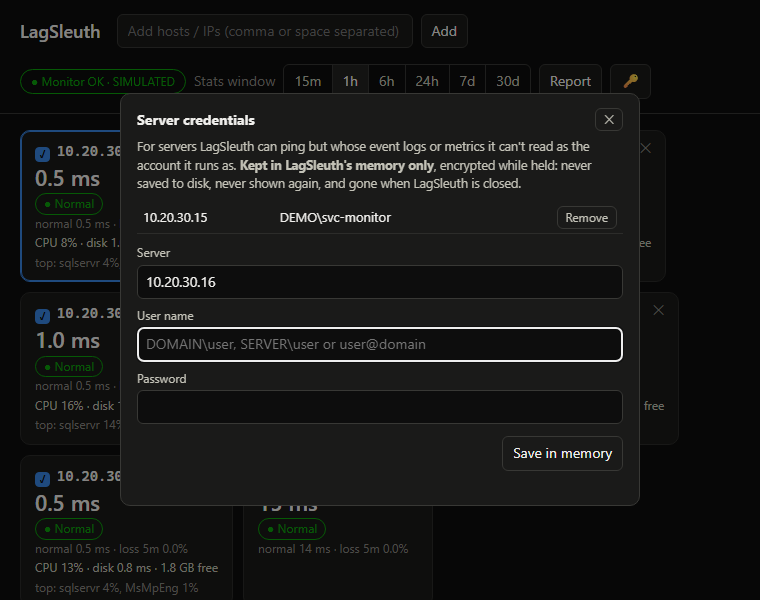
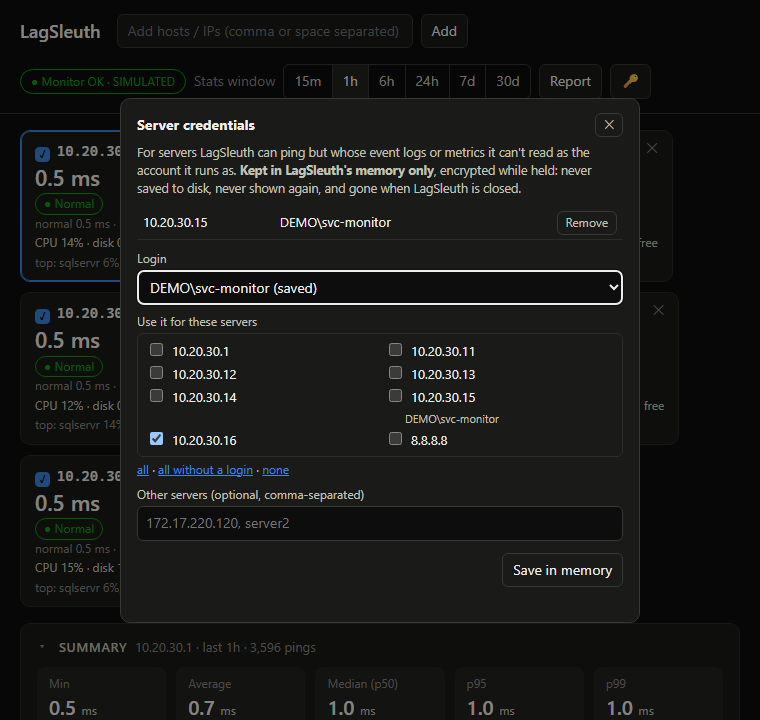
Credentials: one login for several servers, and reuse a saved login
The credentials dialog now has a tick-list of monitored servers (plus
"all", "all without a login" and an "other servers" box), so one login
can be entered once for many servers. Saved logins appear under Login
as "(saved)": pick one, tick more servers and save, without typing the
password again. The copy happens inside LagSleuth's memory; the password
is never sent back to the browser. Each server is tested in parallel and
reported on its own line.

POST /api/credentials accepts "hosts" (list) and "from" (copy the login
saved for that server); the single "host" form still works.

diff --git a/source/web/index.html b/source/web/index.html
@@ -154,6 +154,12 @@
   .cred td { padding: 4px 6px; border-bottom: 1px solid var(--grid); }
   .cred .msg { font-size: 12.5px; margin-top: 8px; min-height: 1em; }
   .cred .msg.bad { color: var(--critical); } .cred .msg.ok { color: var(--good); }
+  .cred select { width: 100%; font: inherit; padding: 6px 8px; border: 1px solid var(--axis); border-radius: 6px; background: var(--page); color: var(--text); }
+  .credHosts { display: grid; grid-template-columns: repeat(auto-fill, minmax(150px, 1fr)); gap: 2px 10px; max-height: 180px; overflow: auto; border: 1px solid var(--grid); border-radius: 6px; padding: 6px 8px; }
+  .credHosts label { display: flex; align-items: baseline; gap: 6px; margin: 0; font-size: 13px; color: var(--text); cursor: pointer; flex-wrap: wrap; }
+  .credHosts input { width: auto; padding: 0; }
+  .credHosts small { flex-basis: 100%; padding-left: 20px; color: var(--text-2); font-size: 11px; margin-top: -2px; }
+  .credPicks { font-size: 12px; color: var(--text-2); margin-top: 4px; }
   .credbtn { background: none; border: 0; color: var(--series); font: inherit; font-size: inherit; padding: 0; cursor: pointer; text-decoration: underline; }
   .lpanel { margin-top: 12px; background: #121211; border: 1px solid var(--grid); border-radius: 8px; padding: 10px 14px 14px; }
   .lhead { display: flex; align-items: center; gap: 8px; margin-bottom: 6px; flex-wrap: wrap; }
@@ -1515,32 +1521,54 @@ async function openCred(host) {
   }
   let list = [];
   try { const r = await credFetch('/api/credentials'); list = r.ok ? await r.json() : []; } catch {}
-  const targets = Object.keys(view.liveData || {});
+  const has = Object.fromEntries(list.map(c => [c.host, c.user]));
+  const targets = Object.keys(view.liveData || {}).filter(t => t !== 'local');
+  if (host && !targets.includes(host)) targets.unshift(host);
+  // one entry per saved login (user name), pointing at a server it is saved for, so it can be copied to others
+  const logins = [];
+  for (const c of list) if (!logins.some(l => l.user.toLowerCase() === c.user.toLowerCase())) logins.push(c);
+  const pick = host ? new Set([host]) : new Set();
   credBody.innerHTML = (list.length ? `<table>${list.map(c => `<tr><td class="mono">${esc(c.host)}</td><td>${esc(c.user)}</td>
       <td style="text-align:right"><button type="button" class="logbtn" data-credrm="${esc(c.host)}">Remove</button></td></tr>`).join('')}</table>` : '') +
-    `<label for="credHost">Server</label><input id="credHost" list="credHosts" value="${esc(host || '')}" placeholder="172.17.220.100" spellcheck="false">
-     <datalist id="credHosts">${targets.map(t => `<option value="${esc(t)}">`).join('')}</datalist>
-     <label for="credUser">User name</label><input id="credUser" placeholder="DOMAIN\\user, SERVER\\user or user@domain" spellcheck="false" autocomplete="off">
-     <label for="credPass">Password</label><input id="credPass" type="password" autocomplete="new-password">
+    `<label for="credLogin">Login</label>
+     <select id="credLogin">${logins.map(l => `<option value="${esc(l.host)}">${esc(l.user)} (saved)</option>`).join('')}<option value="">A new login…</option></select>
+     <div id="credNew">
+       <label for="credUser">User name</label><input id="credUser" placeholder="DOMAIN\\user, SERVER\\user or user@domain" spellcheck="false" autocomplete="off">
+       <label for="credPass">Password</label><input id="credPass" type="password" autocomplete="new-password">
+     </div>
+     <label>Use it for these servers</label>
+     <div class="credHosts">${targets.map(t => `<label><input type="checkbox" value="${esc(t)}"${pick.has(t) ? ' checked' : ''}>
+        <span class="mono">${esc(t)}</span>${has[t] ? `<small>${esc(has[t])}</small>` : ''}</label>`).join('') || '<span class="credNote">No servers monitored yet.</span>'}</div>
+     <div class="credPicks"><button type="button" class="credbtn" id="credAll">all</button> · <button type="button" class="credbtn" id="credNoLogin">all without a login</button> · <button type="button" class="credbtn" id="credNone">none</button></div>
+     <label for="credMore">Other servers (optional, comma-separated)</label><input id="credMore" placeholder="172.17.220.120, server2" spellcheck="false">
      <div style="display:flex;gap:8px;margin-top:12px"><span style="flex:1"></span><button type="button" class="btn" id="credSave">Save in memory</button></div>
      <div class="msg" id="credMsg"></div>`;
+  const sel = document.getElementById('credLogin'), showNew = () => document.getElementById('credNew').hidden = sel.value !== '';
+  sel.addEventListener('change', showNew); showNew();
   credDlg.showModal();
-  document.getElementById(host ? 'credUser' : 'credHost').focus();
+  (sel.value === '' ? document.getElementById('credUser') : sel).focus();
 }
+function credTick(fn) { credBody.querySelectorAll('.credHosts input').forEach(b => b.checked = fn(b)); }
 async function saveCred() {
-  const h = document.getElementById('credHost'), u = document.getElementById('credUser'), p = document.getElementById('credPass'), m = document.getElementById('credMsg');
-  if (!h.value.trim() || !u.value.trim() || !p.value) { m.className = 'msg bad'; m.textContent = 'Enter a server, a user name and a password.'; return; }
-  const body = JSON.stringify({ host: h.value.trim(), user: u.value.trim(), password: p.value });
-  p.value = '';   // never left in the page
-  m.className = 'msg'; m.textContent = 'Saving and testing…';
+  const sel = document.getElementById('credLogin'), u = document.getElementById('credUser'), p = document.getElementById('credPass'), m = document.getElementById('credMsg');
+  const hosts = [...credBody.querySelectorAll('.credHosts input:checked')].map(b => b.value)
+    .concat(document.getElementById('credMore').value.split(/[,;\s]+/).map(s => s.trim()).filter(Boolean));
+  const req = { hosts };
+  if (sel.value) req.from = sel.value;
+  else { req.user = u.value.trim(); req.password = p.value; }
+  if (!hosts.length) { m.className = 'msg bad'; m.textContent = 'Tick at least one server.'; return; }
+  if (!sel.value && (!req.user || !req.password)) { m.className = 'msg bad'; m.textContent = 'Enter a user name and a password.'; return; }
+  const body = JSON.stringify(req);
+  p.value = ''; delete req.password;   // never left in the page
+  m.className = 'msg'; m.textContent = `Saving and testing ${hosts.length} server${hosts.length > 1 ? 's' : ''}…`;
   try {
     const r = await credFetch('/api/credentials', { method: 'POST', body }), d = await r.json();
-    if (!r.ok) { m.className = 'msg bad'; m.textContent = d.error || 'Failed'; return; }
-    const host = d.host;
+    if (!d.results) { m.className = 'msg bad'; m.textContent = d.error || 'Failed'; return; }
     await openCred('');
-    const m2 = document.getElementById('credMsg');
-    m2.className = d.event_logs === 'ok' ? 'msg ok' : 'msg bad';
-    m2.textContent = `Saved for ${host} (memory only). Event logs: ${d.event_logs === 'ok' ? 'readable' : d.event_logs}. Metrics reconnect within a few seconds.`;
+    const m2 = document.getElementById('credMsg'), ok = d.results.every(x => x.event_logs === 'ok');
+    m2.className = ok ? 'msg ok' : 'msg bad';
+    m2.innerHTML = `Saved ${esc(d.user || '')} in memory. Metrics reconnect within a few seconds.<br>` + d.results.map(x =>
+      `<span class="mono">${esc(x.host)}</span>: ${x.error ? 'not saved, ' + esc(x.error) : x.event_logs === 'ok' ? 'event logs readable' : 'event logs ' + esc(x.event_logs || '')}`).join('<br>');
   } catch (e) { m.className = 'msg bad'; m.textContent = String(e); }
 }
 document.addEventListener('click', async e => {
@@ -1549,6 +1577,9 @@ document.addEventListener('click', async e => {
   const rm = e.target.closest('[data-credrm]');
   if (rm) { await credFetch('/api/credentials/' + encodeURIComponent(rm.dataset.credrm), { method: 'DELETE' }); return openCred(''); }
   if (e.target.id === 'credSave') return saveCred();
+  if (e.target.id === 'credAll') return credTick(() => true);
+  if (e.target.id === 'credNone') return credTick(() => false);
+  if (e.target.id === 'credNoLogin') return credTick(b => !b.closest('label').querySelector('small'));
   if (e.target.id === 'credClose') credDlg.close();
 });
 document.getElementById('credForm').addEventListener('submit', e => { e.preventDefault(); saveCred(); });

diff --git a/source/creds.go b/source/creds.go
@@ -80,6 +80,54 @@ func setCred(host, user string, password []uint16) error {
 	return nil
 }
 
+// copyCred gives host the same login as from. The password is decrypted only inside this process, for as long
+// as it takes to set it up for the new host, then wiped.
+func copyCred(from, host string) error {
+	if from == host {
+		return nil
+	}
+	credMu.RLock()
+	e := creds[from]
+	if e == nil {
+		credMu.RUnlock()
+		return errors.New("there is no saved login for " + from + " any more")
+	}
+	user := e.User
+	var pw []uint16
+	err := e.sec.withPasswordUTF16(func(p []uint16) { pw = append(make([]uint16, 0, len(p)), p...) })
+	credMu.RUnlock()
+	defer zeroUTF16(pw)
+	if err != nil {
+		return err
+	}
+	return setCred(host, user, pw)
+}
+
+func credUser(host string) string {
+	credMu.RLock()
+	defer credMu.RUnlock()
+	if e := creds[host]; e != nil {
+		return e.User
+	}
+	return ""
+}
+
+const maxCredHosts = 64
+
+// credHostList merges "host" and "hosts" into a trimmed list without blanks or repeats.
+func credHostList(one string, many []string) []string {
+	seen := map[string]bool{}
+	var out []string
+	for _, h := range append([]string{one}, many...) {
+		h = strings.TrimSpace(h)
+		if h != "" && !seen[h] {
+			seen[h] = true
+			out = append(out, h)
+		}
+	}
+	return out
+}
+
 func removeCred(host string) {
 	credMu.Lock()
 	if e := creds[host]; e != nil {
@@ -234,46 +282,96 @@ func credRoutes(mux *http.ServeMux) {
 		writeJSON(w, list)
 	})
 
-	// POST /api/credentials {"host": "...", "user": "DOMAIN\\name", "password": "..."} -> store in memory, then test
+	// POST /api/credentials -> store in memory for one or more servers, then test each:
+	//   {"hosts": ["a", "b"], "user": "DOMAIN\\name", "password": "..."}   a new login ("host": "a" also works)
+	//   {"hosts": ["a", "b"], "from": "c"}                                   reuse the login saved for server c
+	// Reusing copies the login inside LagSleuth: the password is never sent back to the browser.
 	mux.HandleFunc("POST /api/credentials", func(w http.ResponseWriter, r *http.Request) {
 		if !localOnly(w, r) {
 			return
 		}
-		body, _ := io.ReadAll(io.LimitReader(r.Body, 16<<10))
+		body, _ := io.ReadAll(io.LimitReader(r.Body, 32<<10))
 		defer zeroBytes(body)
 		var req struct {
 			Host     string          `json:"host"`
+			Hosts    []string        `json:"hosts"`
+			From     string          `json:"from"`
 			User     string          `json:"user"`
 			Password json.RawMessage `json:"password"`
 		}
 		err := json.Unmarshal(body, &req)
 		defer zeroBytes(req.Password)
-		host, user := strings.TrimSpace(req.Host), strings.TrimSpace(req.User)
-		if err != nil || host == "" || user == "" || !hostRE.MatchString(host) || !logEligible(host) {
+		hosts := credHostList(req.Host, req.Hosts)
+		if err != nil || len(hosts) == 0 {
 			w.WriteHeader(400)
-			writeJSON(w, map[string]string{"error": "Enter a server, a user name and a password."})
+			writeJSON(w, map[string]string{"error": "Pick at least one server."})
 			return
 		}
-		pw, err := jsonStringUTF16(req.Password)
-		defer zeroUTF16(pw)
-		if err != nil || len(pw) == 0 {
+		if len(hosts) > maxCredHosts {
 			w.WriteHeader(400)
-			writeJSON(w, map[string]string{"error": "Enter a password."})
+			writeJSON(w, map[string]string{"error": "Pick at most " + strconv.Itoa(maxCredHosts) + " servers at a time."})
 			return
 		}
-		if err := setCred(host, user, pw); err != nil {
-			w.WriteHeader(500)
-			writeJSON(w, map[string]string{"error": err.Error()})
-			return
-		}
-		// quick test: can we read the System log there with these credentials?
-		res := map[string]any{"ok": true, "host": host, "user": user}
-		if err := testEventLogAccess(host); err != nil {
-			res["event_logs"] = "failed: " + err.Error()
+		from, user := strings.TrimSpace(req.From), strings.TrimSpace(req.User)
+		var apply func(host string) error
+		if from != "" {
+			if !hasCred(from) {
+				w.WriteHeader(400)
+				writeJSON(w, map[string]string{"error": "There is no saved login for " + from + " any more."})
+				return
+			}
+			apply = func(host string) error { return copyCred(from, host) }
+			user = credUser(from)
 		} else {
-			res["event_logs"] = "ok"
+			if user == "" {
+				w.WriteHeader(400)
+				writeJSON(w, map[string]string{"error": "Enter a user name and a password."})
+				return
+			}
+			pw, err := jsonStringUTF16(req.Password)
+			defer zeroUTF16(pw)
+			if err != nil || len(pw) == 0 {
+				w.WriteHeader(400)
+				writeJSON(w, map[string]string{"error": "Enter a password."})
+				return
+			}
+			apply = func(host string) error { return setCred(host, user, pw) }
 		}
-		writeJSON(w, res)
+		// store for each server (one at a time), then test them all at once: can we read the System log there?
+		results := make([]map[string]any, len(hosts))
+		var wg sync.WaitGroup
+		for i, host := range hosts {
+			res := map[string]any{"host": host}
+			results[i] = res
+			if !hostRE.MatchString(host) || !logEligible(host) {
+				res["error"] = "not a server LagSleuth can read"
+				continue
+			}
+			if err := apply(host); err != nil {
+				res["error"] = err.Error()
+				continue
+			}
+			wg.Add(1)
+			go func() {
+				defer wg.Done()
+				if err := testEventLogAccess(host); err != nil {
+					res["event_logs"] = "failed: " + err.Error()
+				} else {
+					res["event_logs"] = "ok"
+				}
+			}()
+		}
+		wg.Wait()
+		out := map[string]any{"ok": true, "user": user, "results": results}
+		if len(results) == 1 { // the single-server answer, as before
+			for k, v := range results[0] {
+				out[k] = v
+			}
+			if _, bad := results[0]["error"]; bad {
+				w.WriteHeader(400)
+			}
+		}
+		writeJSON(w, out)
 	})
 
 	// DELETE /api/credentials/{host} -> wipe them

diff --git a/source/incidents_test.go b/source/incidents_test.go
@@ -315,6 +315,22 @@ func TestCredRoutesLocalOnly(t *testing.T) {
 	if !strings.Contains(lw.Body.String(), `"user":"CORP\\svc"`) {
 		t.Errorf("list wrong: %s", lw.Body.String())
 	}
+	// one new login for several servers at once
+	w = post("127.0.0.1:5000", "localhost:5055", "1", `{"hosts":["10.20.30.12"," 10.20.30.13","10.20.30.12"],"user":"CORP\\other","password":"pw2"}`)
+	if w.Code != 200 || !hasCred("10.20.30.12") || !hasCred("10.20.30.13") || strings.Count(w.Body.String(), `"host"`) != 2 {
+		t.Fatalf("multi-host save: %d %s", w.Code, w.Body.String())
+	}
+	// reuse the login saved for .11 on two more servers, without sending the password
+	w = post("127.0.0.1:5000", "localhost:5055", "1", `{"hosts":["10.20.30.14","10.20.30.13"],"from":"10.20.30.11"}`)
+	if w.Code != 200 || credUser("10.20.30.14") != `CORP\svc` || credUser("10.20.30.13") != `CORP\svc` || strings.Contains(w.Body.String(), "secret-pw") {
+		t.Fatalf("reuse saved login: %d %s", w.Code, w.Body.String())
+	}
+	if w := post("127.0.0.1:5000", "localhost:5055", "1", `{"hosts":["10.20.30.15"],"from":"10.20.30.99"}`); w.Code != 400 || hasCred("10.20.30.15") {
+		t.Errorf("reuse from a server without a login: %d", w.Code)
+	}
+	if w := post("127.0.0.1:5000", "localhost:5055", "1", `{"hosts":[],"user":"x","password":"y"}`); w.Code != 400 {
+		t.Errorf("no servers accepted: %d", w.Code)
+	}
 	removeCred("10.20.30.11")
 	if hasCred("10.20.30.11") {
 		t.Error("credentials not removed")

diff --git a/source/creds_windows.go b/source/creds_windows.go
@@ -104,6 +104,20 @@ func (s *secret) withPassword(f func(pw *uint16)) error {
 	return nil
 }
 
+// withPasswordUTF16 is withPassword with the password as a slice (without the trailing NUL); the slice is
+// wiped as soon as f returns, so f must copy anything it keeps.
+func (s *secret) withPasswordUTF16(f func(pw []uint16)) error {
+	return s.withPassword(func(p *uint16) {
+		n := len(s.enc) / 2
+		all := unsafe.Slice(p, n)
+		end := 0
+		for end < n && all[end] != 0 {
+			end++
+		}
+		f(all[:end])
+	})
+}
+
 // credThreadSetup runs on a collector's locked OS thread before it connects: with credentials for the host,
 // the thread impersonates their network-only token, so PDH's remote connection uses them; otherwise it uses
 // LagSleuth's own account. Returns the credentials version it set up for.

diff --git a/source/creds_other.go b/source/creds_other.go
@@ -15,6 +15,13 @@ func (s *secret) free() {
 		s.set = false
 	}
 }
+func (s *secret) withPasswordUTF16(f func(pw []uint16)) error {
+	if s == nil || !s.set {
+		return errors.New("credentials were removed")
+	}
+	f([]uint16{'x'})
+	return nil
+}
 func credThreadSetup(host string) int { return credVersion(host) }
 func queryEventsWithCred(host string, ch LogChannel, from, to float64, max int) ([]LogEvent, error) {
 	if simulate {

diff --git a/README.md b/README.md
@@ -117,7 +117,9 @@ Servers LagSleuth can't read show **"no access"** with the reason, and are retri
 
 For a server you can ping but not read (another domain, off the domain, a different admin account), click **🔑** in the top bar, or **🔑 credentials** next to "no access", and enter a user name (`DOMAIN\user`, `SERVER\user` or `user@domain`) and password. LagSleuth tests them on the server's System log straight away, and metrics reconnect with them within seconds.
 
-![Server credentials dialog: one saved entry showing server and user name only, and a form with server, user name and password, saved in memory](screenshots/credentials.png)
+**One login, many servers:** tick every server the login is for (or click *all without a login*) and enter it once. Once a login is saved, it shows under **Login** as *(saved)*: pick it, tick more servers, and save. You don't type the password again: LagSleuth copies the login in its own memory, and it is never sent back to the browser.
+
+![Server credentials dialog: one saved login showing server and user name only, the saved login picked under Login, and a tick-list of servers to use it for](screenshots/credentials.png)
 
 - **Never stored:** not in `config.json`, the data folder, Windows Credential Manager or any log. Closing LagSleuth wipes them; enter them again after a restart.
 - **Encrypted while held:** the password stays encrypted in memory (Windows memory encryption, only this process can decrypt it) and is decrypted only for the moment it is handed to Windows to log on, then wiped.
